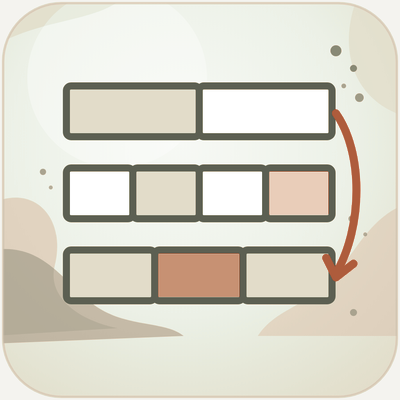
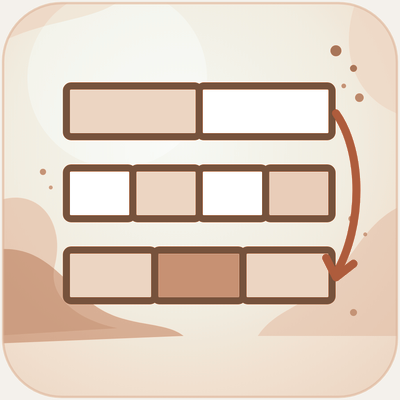
Ikonerna: varmare höstfärger och kantlinje
Versionsnummer på bilder, stil och skript så att webbläsaren hämtar
nya filer i stället för gamla sparade.

Claude-Session: https://claude.ai/code/session_01FW4pkRfwxJFFBgcHcFTAjf

diff --git a/index.html b/index.html
@@ -4,8 +4,8 @@
 <meta name="description" content="Problemlösning med blockmodellen: genomgångar steg för steg och interaktiva övningar.">
 <link rel="preconnect" href="https://fonts.googleapis.com"><link rel="preconnect" href="https://fonts.gstatic.com" crossorigin>
 <link href="https://fonts.googleapis.com/css2?family=Fraunces:opsz,wght@9..144,600;9..144,700&family=Inter:wght@400;500;600;700;800;900&display=swap" rel="stylesheet">
-<link rel="icon" href="bilder/logo.svg" type="image/svg+xml">
-<link rel="stylesheet" href="stil.css">
+<link rel="icon" href="bilder/logo.svg?v=202611190538" type="image/svg+xml">
+<link rel="stylesheet" href="stil.css?v=202611190538">
 <style>:root{--ink:#6B705C;--mid:#B7B7A4;--l:#DDBEA9;--vl:#FFF6EB;--w:#FFF6EB;--hi:#B7B7A4;--bg:#FFF6EB;--ram:#DDBEA9;--knapp:#6B705C;--t:#FFF6EB;--tram:#E6D3C2}</style>
 <style>.logo .bmlogo{flex:none}nav a.on{font-weight:800;text-decoration:underline;text-underline-offset:6px}</style></head><body>
 <header><div class="wrap"><a class="logo" href="index.html"><svg class="bmlogo" viewBox="0 0 50 50" width="50" height="50" aria-hidden="true"><rect x="3" y="9" width="44" height="12" rx="2.5" fill="#DEDFCE" stroke="#3A3B30" stroke-width="2"/><rect x="3" y="27" width="20" height="12" rx="2.5" fill="#EED5C3" stroke="#3A3B30" stroke-width="2"/><rect x="23" y="27" width="14" height="12" rx="2.5" fill="#EED5C3" stroke="#3A3B30" stroke-width="2"/><rect x="37" y="27" width="10" height="12" rx="2.5" fill="#fff" stroke="#B5603F" stroke-width="2" stroke-dasharray="3 2"/></svg><span>Blockmodellen<small>Problemlösning steg för steg</small></span></a>
@@ -49,7 +49,7 @@
 .panel{margin-bottom:18px!important;padding:20px 20px!important}.panel h1{font-size:34px!important}.panel p{font-size:16px!important;line-height:1.45!important}.panel p .mer{display:none}section.bm-del.lek>i.eik{width:48px!important;height:48px!important}}
 </style><style>
 .bm-omr{background:#fff;border:1.5px solid #E6D3C2;border-top:6px solid #4F5342;border-radius:18px;padding:16px 20px 18px;margin:0 0 16px;scroll-margin-top:16px}
-.bm-omr-h{display:flex;align-items:center;gap:14px;margin:0 0 14px}.bm-omr-h img{width:52px;height:52px;flex:none;filter:drop-shadow(0 1px 2px rgba(30,43,58,.12))}
+.bm-omr-h{display:flex;align-items:center;gap:14px;margin:0 0 14px}.bm-omr-h img{width:56px;height:56px;flex:none;box-sizing:border-box;border:2px solid #B07A5C;border-radius:14px;object-fit:cover;background:#FFF6EB}
 .bm-omr-h h2{margin:0;font-size:24px}.bm-omr-h small{display:block;color:#6A6558;font-size:14px;font-weight:600}
 .bm-omr h3{font-family:Inter,sans-serif;margin:14px 0 8px;font-size:13px;font-weight:800;text-transform:uppercase;letter-spacing:.04em;color:#6A6558}
 .bm-gg{display:grid;grid-template-columns:repeat(3,minmax(0,1fr));gap:8px}
@@ -60,8 +60,8 @@
 .bm-ov{display:flex;flex-wrap:wrap;gap:8px;margin-top:14px}
 .bm-ov a{display:inline-flex;align-items:center;gap:6px;text-decoration:none;font-weight:700;font-size:15px;border-radius:999px;padding:8px 14px;background:#F5E4D4;border:1.5px solid #C58C6D;color:#2A2B22}
 .bm-ov a:hover{background:#E8C9B3}.bm-ov a.slump{background:#3A3B30;border-color:#3A3B30;color:#fff}
-@media (max-width:900px){.bm-gg{grid-template-columns:1fr 1fr}}@media (max-width:600px){.bm-gg{grid-template-columns:1fr}.bm-omr{padding:14px 14px 16px}.bm-omr-h img{width:44px;height:44px}.bm-omr-h h2{font-size:21px}}
-</style><details class="bm-tank"><summary><span>Så tänker du</span><small>8 steg för att lösa en uppgift med blockmodellen</small></summary><ol class="bm-steg"><li><b>Läs hela uppgiften</b>Vem eller vad handlar uppgiften om?</li><li><b>Rita blocket</b>Ett block för det hela, eller för den som har minst. Rita de andra utifrån det.</li><li><b>Läs en gång till</b>Skriv in det du vet: talen och delarna som står i texten.</li><li><b>Vad söker vi?</b>Skriv ett ? där svaret ska stå.</li><li><b>Hur delar vi blocket?</b>Dela i lika stora delar. Är bråket eller procenten svår att visa? Dela i mindre delar.</li><li><b>Är det något som stör?</b>En liten extra del, en rabatt eller något som flyttas. Ta bort det och ändra talet.</li><li><b>Hur mycket är en del?</b>Dela talet du vet med antalet delar. Räkna sedan ut det du söker.</li><li><b>Svara och kontrollera</b>Svara med en hel mening. Är svaret rimligt?</li></ol></details><div id="blandade"><section class="bm-omr" id="tal"><div class="bm-omr-h"><img src="bilder/bm-tal.png" alt=""><div><h2>Naturliga tal</h2><small>6 genomgångar · tre uppgifter i varje</small></div></div><div class="bm-gg"><div><span>1</span><em>Pärlproblemet</em><b><a href="https://drive.google.com/file/d/17Kt0o9oEqbsKeMjQ-DYdjIm5X_vjfPCh/view" target="_blank" rel="noopener">PPT</a><a class="pdf" href="pdf/blandade-02.pdf" target="_blank" rel="noopener">PDF</a><a class="ova" href="ova.html?l=2">Öva</a></b></div><div><span>2</span><em>Ryggsäcksproblemet</em><b><a href="https://drive.google.com/file/d/1OMk2tmF8yoeLj4kfQwA310-q7Bd5yBHd/view" target="_blank" rel="noopener">PPT</a><a class="pdf" href="pdf/blandade-04.pdf" target="_blank" rel="noopener">PDF</a><a class="ova" href="ova.html?l=4">Öva</a></b></div><div><span>3</span><em>Frimärksproblemet</em><b><a href="https://drive.google.com/file/d/1pQglbcg-EiJWTSiU6Dwevq3f0ULDbgb4/view" target="_blank" rel="noopener">PPT</a><a class="pdf" href="pdf/blandade-06.pdf" target="_blank" rel="noopener">PDF</a><a class="ova" href="ova.html?l=6">Öva</a></b></div><div><span>4</span><em>Åldersproblemet</em><b><a href="https://drive.google.com/file/d/1ZTQHDT-lgQtClPZrrIG-9wtgn8gQ7DVU/view" target="_blank" rel="noopener">PPT</a><a class="pdf" href="pdf/blandade-07.pdf" target="_blank" rel="noopener">PDF</a><a class="ova" href="ova.html?l=7">Öva</a></b></div><div><span>5</span><em>Biljettproblemet</em><b><a href="https://drive.google.com/file/d/17ylnughw92XObPvDfJ11sF3EDz65QB5t/view" target="_blank" rel="noopener">PPT</a><a class="pdf" href="pdf/blandade-08.pdf" target="_blank" rel="noopener">PDF</a><a class="ova" href="ova.html?l=8">Öva</a></b></div><div><span>6</span><em>Fickpengsproblemet</em><b><a href="https://drive.google.com/file/d/1dmgQJSduHHs5-DfGUHQt99nVvsS7_g1F/view" target="_blank" rel="noopener">PPT</a><a class="pdf" href="pdf/blandade-11.pdf" target="_blank" rel="noopener">PDF</a><a class="ova" href="ova.html?l=11">Öva</a></b></div></div><div class="bm-ov"><a class="slump" href="trana.html?omr=nat">Slumpade uppgifter: naturliga tal →</a></div></section><section class="bm-omr" id="brak"><div class="bm-omr-h"><img src="bilder/bm-brak.png" alt=""><div><h2>Bråk</h2><small>3 genomgångar · tre uppgifter i varje</small></div></div><div class="bm-gg"><div><span>7</span><em>Campingproblemet</em><b><a href="https://drive.google.com/file/d/1QBiYS2irVUmERhYtTl7-DSw3yshJLF4N/view" target="_blank" rel="noopener">PPT</a><a class="pdf" href="pdf/blandade-01.pdf" target="_blank" rel="noopener">PDF</a><a class="ova" href="ova.html?l=1">Öva</a></b></div><div><span>8</span><em>Veckopengsproblemet</em><b><a href="https://drive.google.com/file/d/17ZrXr9yd_D8kfU-dGLnqT9yi520G04ab/view" target="_blank" rel="noopener">PPT</a><a class="pdf" href="pdf/blandade-05.pdf" target="_blank" rel="noopener">PDF</a><a class="ova" href="ova.html?l=5">Öva</a></b></div><div><span>9</span><em>Tankproblemet</em><b><a href="https://drive.google.com/file/d/1-d3l4B1OYmZgkZfy7c7Y4uGqGxeNanFu/view" target="_blank" rel="noopener">PPT</a><a class="pdf" href="pdf/blandade-12.pdf" target="_blank" rel="noopener">PDF</a><a class="ova" href="ova.html?l=12">Öva</a></b></div></div><div class="bm-ov"><a class="slump" href="trana.html?omr=brak">Slumpade uppgifter: bråk →</a></div></section><section class="bm-omr" id="forhallande"><div class="bm-omr-h"><img src="bilder/bm-forh.png" alt=""><div><h2>Förhållande</h2><small>3 genomgångar · tre uppgifter i varje</small></div></div><div class="bm-gg"><div><span>10</span><em>Klubbproblemet</em><b><a href="https://drive.google.com/file/d/17JiUn-39sepv0XO5E1zyIT4X9HXgS92O/view" target="_blank" rel="noopener">PPT</a><a class="pdf" href="pdf/blandade-09.pdf" target="_blank" rel="noopener">PDF</a><a class="ova" href="ova.html?l=9">Öva</a></b></div><div><span>11</span><em>Saftproblemet</em><b><a href="https://drive.google.com/file/d/1-pATagABDABF_cw-JGKHqhd4kZ6KdXIF/view" target="_blank" rel="noopener">PPT</a><a class="pdf" href="pdf/blandade-13.pdf" target="_blank" rel="noopener">PDF</a><a class="ova" href="ova.html?l=13">Öva</a></b></div><div><span>12</span><em>Kortbytesproblemet</em><b><a href="https://drive.google.com/file/d/1OK4lUZ8Qu8js-u6cPWZ_2feRvTf1V2MI/view" target="_blank" rel="noopener">PPT</a><a class="pdf" href="pdf/blandade-14.pdf" target="_blank" rel="noopener">PDF</a><a class="ova" href="ova.html?l=14">Öva</a></b></div></div><div class="bm-ov"><a class="slump" href="trana.html?omr=forh">Slumpade uppgifter: förhållande →</a></div></section><section class="bm-omr" id="procent"><div class="bm-omr-h"><img src="bilder/bm-procent.png" alt=""><div><h2>Procent</h2><small>3 genomgångar · tre uppgifter i varje</small></div></div><div class="bm-gg"><div><span>13</span><em>Rabatt i procent</em><b><a href="https://drive.google.com/file/d/17fC4mrEaEfd_HCdVPecIEBXufxIfdrN9/view" target="_blank" rel="noopener">PPT</a><a class="pdf" href="pdf/blandade-03.pdf" target="_blank" rel="noopener">PDF</a><a class="ova" href="ova.html?l=3">Öva</a></b></div><div><span>14</span><em>Prishöjningsproblemet</em><b><a href="https://drive.google.com/file/d/1zhxnCQ7BIQ_AB1IeHZQOvBYWyJb_HOE8/view" target="_blank" rel="noopener">PPT</a><a class="pdf" href="pdf/blandade-10.pdf" target="_blank" rel="noopener">PDF</a><a class="ova" href="ova.html?l=10">Öva</a></b></div><div><span>15</span><em>Andelsproblemet</em><b><a href="https://drive.google.com/file/d/1jKR5WJxMUtUbhwYYQ98gQioMq3ddlYSh/view" target="_blank" rel="noopener">PPT</a><a class="pdf" href="pdf/blandade-15.pdf" target="_blank" rel="noopener">PDF</a><a class="ova" href="ova.html?l=15">Öva</a></b></div></div><div class="bm-ov"><a class="slump" href="trana.html?omr=proc">Slumpade uppgifter: procent →</a></div></section></div><a class="bm-slump" href="trana.html"><span class="bm-slump-t"><b>Slumpade uppgifter</b><small>Blandat från alla områden, med nya tal och namn varje gång. Lös dem steg för steg.</small></span><em>Starta →</em></a></div></section></main><style>.m6h i.eik{width:60px!important;height:60px!important}.bm-valj i.eik{width:58px!important;height:58px!important}.bm-del>i.eik{width:64px!important;height:64px!important}</style>
+@media (max-width:900px){.bm-gg{grid-template-columns:1fr 1fr}}@media (max-width:600px){.bm-gg{grid-template-columns:1fr}.bm-omr{padding:14px 14px 16px}.bm-omr-h img{width:48px;height:48px;border-radius:12px}.bm-omr-h h2{font-size:21px}}
+</style><details class="bm-tank"><summary><span>Så tänker du</span><small>8 steg för att lösa en uppgift med blockmodellen</small></summary><ol class="bm-steg"><li><b>Läs hela uppgiften</b>Vem eller vad handlar uppgiften om?</li><li><b>Rita blocket</b>Ett block för det hela, eller för den som har minst. Rita de andra utifrån det.</li><li><b>Läs en gång till</b>Skriv in det du vet: talen och delarna som står i texten.</li><li><b>Vad söker vi?</b>Skriv ett ? där svaret ska stå.</li><li><b>Hur delar vi blocket?</b>Dela i lika stora delar. Är bråket eller procenten svår att visa? Dela i mindre delar.</li><li><b>Är det något som stör?</b>En liten extra del, en rabatt eller något som flyttas. Ta bort det och ändra talet.</li><li><b>Hur mycket är en del?</b>Dela talet du vet med antalet delar. Räkna sedan ut det du söker.</li><li><b>Svara och kontrollera</b>Svara med en hel mening. Är svaret rimligt?</li></ol></details><div id="blandade"><section class="bm-omr" id="tal"><div class="bm-omr-h"><img src="bilder/bm-tal.png?v=202611190538" alt=""><div><h2>Naturliga tal</h2><small>6 genomgångar · tre uppgifter i varje</small></div></div><div class="bm-gg"><div><span>1</span><em>Pärlproblemet</em><b><a href="https://drive.google.com/file/d/17Kt0o9oEqbsKeMjQ-DYdjIm5X_vjfPCh/view" target="_blank" rel="noopener">PPT</a><a class="pdf" href="pdf/blandade-02.pdf" target="_blank" rel="noopener">PDF</a><a class="ova" href="ova.html?l=2">Öva</a></b></div><div><span>2</span><em>Ryggsäcksproblemet</em><b><a href="https://drive.google.com/file/d/1OMk2tmF8yoeLj4kfQwA310-q7Bd5yBHd/view" target="_blank" rel="noopener">PPT</a><a class="pdf" href="pdf/blandade-04.pdf" target="_blank" rel="noopener">PDF</a><a class="ova" href="ova.html?l=4">Öva</a></b></div><div><span>3</span><em>Frimärksproblemet</em><b><a href="https://drive.google.com/file/d/1pQglbcg-EiJWTSiU6Dwevq3f0ULDbgb4/view" target="_blank" rel="noopener">PPT</a><a class="pdf" href="pdf/blandade-06.pdf" target="_blank" rel="noopener">PDF</a><a class="ova" href="ova.html?l=6">Öva</a></b></div><div><span>4</span><em>Åldersproblemet</em><b><a href="https://drive.google.com/file/d/1ZTQHDT-lgQtClPZrrIG-9wtgn8gQ7DVU/view" target="_blank" rel="noopener">PPT</a><a class="pdf" href="pdf/blandade-07.pdf" target="_blank" rel="noopener">PDF</a><a class="ova" href="ova.html?l=7">Öva</a></b></div><div><span>5</span><em>Biljettproblemet</em><b><a href="https://drive.google.com/file/d/17ylnughw92XObPvDfJ11sF3EDz65QB5t/view" target="_blank" rel="noopener">PPT</a><a class="pdf" href="pdf/blandade-08.pdf" target="_blank" rel="noopener">PDF</a><a class="ova" href="ova.html?l=8">Öva</a></b></div><div><span>6</span><em>Fickpengsproblemet</em><b><a href="https://drive.google.com/file/d/1dmgQJSduHHs5-DfGUHQt99nVvsS7_g1F/view" target="_blank" rel="noopener">PPT</a><a class="pdf" href="pdf/blandade-11.pdf" target="_blank" rel="noopener">PDF</a><a class="ova" href="ova.html?l=11">Öva</a></b></div></div><div class="bm-ov"><a class="slump" href="trana.html?omr=nat">Slumpade uppgifter: naturliga tal →</a></div></section><section class="bm-omr" id="brak"><div class="bm-omr-h"><img src="bilder/bm-brak.png?v=202611190538" alt=""><div><h2>Bråk</h2><small>3 genomgångar · tre uppgifter i varje</small></div></div><div class="bm-gg"><div><span>7</span><em>Campingproblemet</em><b><a href="https://drive.google.com/file/d/1QBiYS2irVUmERhYtTl7-DSw3yshJLF4N/view" target="_blank" rel="noopener">PPT</a><a class="pdf" href="pdf/blandade-01.pdf" target="_blank" rel="noopener">PDF</a><a class="ova" href="ova.html?l=1">Öva</a></b></div><div><span>8</span><em>Veckopengsproblemet</em><b><a href="https://drive.google.com/file/d/17ZrXr9yd_D8kfU-dGLnqT9yi520G04ab/view" target="_blank" rel="noopener">PPT</a><a class="pdf" href="pdf/blandade-05.pdf" target="_blank" rel="noopener">PDF</a><a class="ova" href="ova.html?l=5">Öva</a></b></div><div><span>9</span><em>Tankproblemet</em><b><a href="https://drive.google.com/file/d/1-d3l4B1OYmZgkZfy7c7Y4uGqGxeNanFu/view" target="_blank" rel="noopener">PPT</a><a class="pdf" href="pdf/blandade-12.pdf" target="_blank" rel="noopener">PDF</a><a class="ova" href="ova.html?l=12">Öva</a></b></div></div><div class="bm-ov"><a class="slump" href="trana.html?omr=brak">Slumpade uppgifter: bråk →</a></div></section><section class="bm-omr" id="forhallande"><div class="bm-omr-h"><img src="bilder/bm-forh.png?v=202611190538" alt=""><div><h2>Förhållande</h2><small>3 genomgångar · tre uppgifter i varje</small></div></div><div class="bm-gg"><div><span>10</span><em>Klubbproblemet</em><b><a href="https://drive.google.com/file/d/17JiUn-39sepv0XO5E1zyIT4X9HXgS92O/view" target="_blank" rel="noopener">PPT</a><a class="pdf" href="pdf/blandade-09.pdf" target="_blank" rel="noopener">PDF</a><a class="ova" href="ova.html?l=9">Öva</a></b></div><div><span>11</span><em>Saftproblemet</em><b><a href="https://drive.google.com/file/d/1-pATagABDABF_cw-JGKHqhd4kZ6KdXIF/view" target="_blank" rel="noopener">PPT</a><a class="pdf" href="pdf/blandade-13.pdf" target="_blank" rel="noopener">PDF</a><a class="ova" href="ova.html?l=13">Öva</a></b></div><div><span>12</span><em>Kortbytesproblemet</em><b><a href="https://drive.google.com/file/d/1OK4lUZ8Qu8js-u6cPWZ_2feRvTf1V2MI/view" target="_blank" rel="noopener">PPT</a><a class="pdf" href="pdf/blandade-14.pdf" target="_blank" rel="noopener">PDF</a><a class="ova" href="ova.html?l=14">Öva</a></b></div></div><div class="bm-ov"><a class="slump" href="trana.html?omr=forh">Slumpade uppgifter: förhållande →</a></div></section><section class="bm-omr" id="procent"><div class="bm-omr-h"><img src="bilder/bm-procent.png?v=202611190538" alt=""><div><h2>Procent</h2><small>3 genomgångar · tre uppgifter i varje</small></div></div><div class="bm-gg"><div><span>13</span><em>Rabatt i procent</em><b><a href="https://drive.google.com/file/d/17fC4mrEaEfd_HCdVPecIEBXufxIfdrN9/view" target="_blank" rel="noopener">PPT</a><a class="pdf" href="pdf/blandade-03.pdf" target="_blank" rel="noopener">PDF</a><a class="ova" href="ova.html?l=3">Öva</a></b></div><div><span>14</span><em>Prishöjningsproblemet</em><b><a href="https://drive.google.com/file/d/1zhxnCQ7BIQ_AB1IeHZQOvBYWyJb_HOE8/view" target="_blank" rel="noopener">PPT</a><a class="pdf" href="pdf/blandade-10.pdf" target="_blank" rel="noopener">PDF</a><a class="ova" href="ova.html?l=10">Öva</a></b></div><div><span>15</span><em>Andelsproblemet</em><b><a href="https://drive.google.com/file/d/1jKR5WJxMUtUbhwYYQ98gQioMq3ddlYSh/view" target="_blank" rel="noopener">PPT</a><a class="pdf" href="pdf/blandade-15.pdf" target="_blank" rel="noopener">PDF</a><a class="ova" href="ova.html?l=15">Öva</a></b></div></div><div class="bm-ov"><a class="slump" href="trana.html?omr=proc">Slumpade uppgifter: procent →</a></div></section></div><a class="bm-slump" href="trana.html"><span class="bm-slump-t"><b>Slumpade uppgifter</b><small>Blandat från alla områden, med nya tal och namn varje gång. Lös dem steg för steg.</small></span><em>Starta →</em></a></div></section></main><style>.m6h i.eik{width:60px!important;height:60px!important}.bm-valj i.eik{width:58px!important;height:58px!important}.bm-del>i.eik{width:64px!important;height:64px!important}</style>
 <footer><div class="wrap"><b>Blockmodellen</b><span>Problemlösning med blockmodellen, steg för steg. Frågor? Fråga eller mejla din <a class="mejl" data-u="nikola.petranovic" data-d="skola.malmo.se" href="#">lärare</a>.</span></div></footer>
 <script>document.querySelectorAll('a.mejl').forEach(function(a){a.href='mailto:'+a.dataset.u+'@'+a.dataset.d})</script>
 </body></html>

diff --git a/ova.html b/ova.html
@@ -4,8 +4,8 @@
 <meta name="description" content="Interaktiv övning till genomgångarna med blockmodellen.">
 <link rel="preconnect" href="https://fonts.googleapis.com"><link rel="preconnect" href="https://fonts.gstatic.com" crossorigin>
 <link href="https://fonts.googleapis.com/css2?family=Fraunces:opsz,wght@9..144,600;9..144,700&family=Inter:wght@400;500;600;700;800;900&display=swap" rel="stylesheet">
-<link rel="icon" href="bilder/logo.svg" type="image/svg+xml">
-<link rel="stylesheet" href="stil.css">
+<link rel="icon" href="bilder/logo.svg?v=202611190538" type="image/svg+xml">
+<link rel="stylesheet" href="stil.css?v=202611190538">
 <style>:root{--ink:#6B705C;--mid:#B7B7A4;--l:#DDBEA9;--vl:#FFF6EB;--w:#FFF6EB;--hi:#B7B7A4;--bg:#FFF6EB;--ram:#DDBEA9;--knapp:#6B705C;--t:#FFF6EB;--tram:#E6D3C2}</style>
 <style>.logo .bmlogo{flex:none}nav a.on{font-weight:800;text-decoration:underline;text-underline-offset:6px}</style></head><body>
 <header><div class="wrap"><a class="logo" href="index.html"><svg class="bmlogo" viewBox="0 0 50 50" width="50" height="50" aria-hidden="true"><rect x="3" y="9" width="44" height="12" rx="2.5" fill="#DEDFCE" stroke="#3A3B30" stroke-width="2"/><rect x="3" y="27" width="20" height="12" rx="2.5" fill="#EED5C3" stroke="#3A3B30" stroke-width="2"/><rect x="23" y="27" width="14" height="12" rx="2.5" fill="#EED5C3" stroke="#3A3B30" stroke-width="2"/><rect x="37" y="27" width="10" height="12" rx="2.5" fill="#fff" stroke="#B5603F" stroke-width="2" stroke-dasharray="3 2"/></svg><span>Blockmodellen<small>Problemlösning steg för steg</small></span></a>
@@ -55,7 +55,7 @@
 .bmo-prog span.nu{background:#3A3B30;color:#fff;border-color:#3A3B30}.bmo-prog span.klar{background:#DEDFCE;border-color:#5B6B3A;color:#4F5E31}
 .bmo-allt{margin:14px 0 0;font-size:16px;font-weight:700;color:#4F5E31}
 </style>
-<main><section><div class="wrap"><div id="bmova"></div><div style="max-width:900px;margin:22px auto 0"><a class="knapp" href="index.html#blandade">← Alla genomgångar</a></div></div></section></main><script src="js/blandade-ova.js"></script><script src="js/blockmodell-ova.js"></script><style>.m6h i.eik{width:60px!important;height:60px!important}.bm-valj i.eik{width:58px!important;height:58px!important}.bm-del>i.eik{width:64px!important;height:64px!important}</style>
+<main><section><div class="wrap"><div id="bmova"></div><div style="max-width:900px;margin:22px auto 0"><a class="knapp" href="index.html#blandade">← Alla genomgångar</a></div></div></section></main><script src="js/blandade-ova.js?v=202611190538"></script><script src="js/blockmodell-ova.js?v=202611190538"></script><style>.m6h i.eik{width:60px!important;height:60px!important}.bm-valj i.eik{width:58px!important;height:58px!important}.bm-del>i.eik{width:64px!important;height:64px!important}</style>
 <footer><div class="wrap"><b>Blockmodellen</b><span>Problemlösning med blockmodellen, steg för steg. Frågor? Fråga eller mejla din <a class="mejl" data-u="nikola.petranovic" data-d="skola.malmo.se" href="#">lärare</a>.</span></div></footer>
 <script>document.querySelectorAll('a.mejl').forEach(function(a){a.href='mailto:'+a.dataset.u+'@'+a.dataset.d})</script>
 </body></html>

diff --git a/trana.html b/trana.html
@@ -4,8 +4,8 @@
 <meta name="description" content="Interaktiva övningar med blockmodellen, nya tal varje gång.">
 <link rel="preconnect" href="https://fonts.googleapis.com"><link rel="preconnect" href="https://fonts.gstatic.com" crossorigin>
 <link href="https://fonts.googleapis.com/css2?family=Fraunces:opsz,wght@9..144,600;9..144,700&family=Inter:wght@400;500;600;700;800;900&display=swap" rel="stylesheet">
-<link rel="icon" href="bilder/logo.svg" type="image/svg+xml">
-<link rel="stylesheet" href="stil.css">
+<link rel="icon" href="bilder/logo.svg?v=202611190538" type="image/svg+xml">
+<link rel="stylesheet" href="stil.css?v=202611190538">
 <style>:root{--ink:#6B705C;--mid:#B7B7A4;--l:#DDBEA9;--vl:#FFF6EB;--w:#FFF6EB;--hi:#B7B7A4;--bg:#FFF6EB;--ram:#DDBEA9;--knapp:#6B705C;--t:#FFF6EB;--tram:#E6D3C2}</style>
 <style>.logo .bmlogo{flex:none}nav a.on{font-weight:800;text-decoration:underline;text-underline-offset:6px}</style></head><body>
 <header><div class="wrap"><a class="logo" href="index.html"><svg class="bmlogo" viewBox="0 0 50 50" width="50" height="50" aria-hidden="true"><rect x="3" y="9" width="44" height="12" rx="2.5" fill="#DEDFCE" stroke="#3A3B30" stroke-width="2"/><rect x="3" y="27" width="20" height="12" rx="2.5" fill="#EED5C3" stroke="#3A3B30" stroke-width="2"/><rect x="23" y="27" width="14" height="12" rx="2.5" fill="#EED5C3" stroke="#3A3B30" stroke-width="2"/><rect x="37" y="27" width="10" height="12" rx="2.5" fill="#fff" stroke="#B5603F" stroke-width="2" stroke-dasharray="3 2"/></svg><span>Blockmodellen<small>Problemlösning steg för steg</small></span></a>
@@ -55,7 +55,7 @@
 .bmo-prog span.nu{background:#3A3B30;color:#fff;border-color:#3A3B30}.bmo-prog span.klar{background:#DEDFCE;border-color:#5B6B3A;color:#4F5E31}
 .bmo-allt{margin:14px 0 0;font-size:16px;font-weight:700;color:#4F5E31}
 </style>
-<main><section><div class="wrap"><div id="bmova"></div><div style="max-width:900px;margin:22px auto 0"><a class="knapp" href="index.html">← Till startsidan</a></div></div></section></main><script src="js/blockmodell-ova.js"></script><style>.m6h i.eik{width:60px!important;height:60px!important}.bm-valj i.eik{width:58px!important;height:58px!important}.bm-del>i.eik{width:64px!important;height:64px!important}</style>
+<main><section><div class="wrap"><div id="bmova"></div><div style="max-width:900px;margin:22px auto 0"><a class="knapp" href="index.html">← Till startsidan</a></div></div></section></main><script src="js/blockmodell-ova.js?v=202611190538"></script><style>.m6h i.eik{width:60px!important;height:60px!important}.bm-valj i.eik{width:58px!important;height:58px!important}.bm-del>i.eik{width:64px!important;height:64px!important}</style>
 <footer><div class="wrap"><b>Blockmodellen</b><span>Problemlösning med blockmodellen, steg för steg. Frågor? Fråga eller mejla din <a class="mejl" data-u="nikola.petranovic" data-d="skola.malmo.se" href="#">lärare</a>.</span></div></footer>
 <script>document.querySelectorAll('a.mejl').forEach(function(a){a.href='mailto:'+a.dataset.u+'@'+a.dataset.d})</script>
 </body></html>
